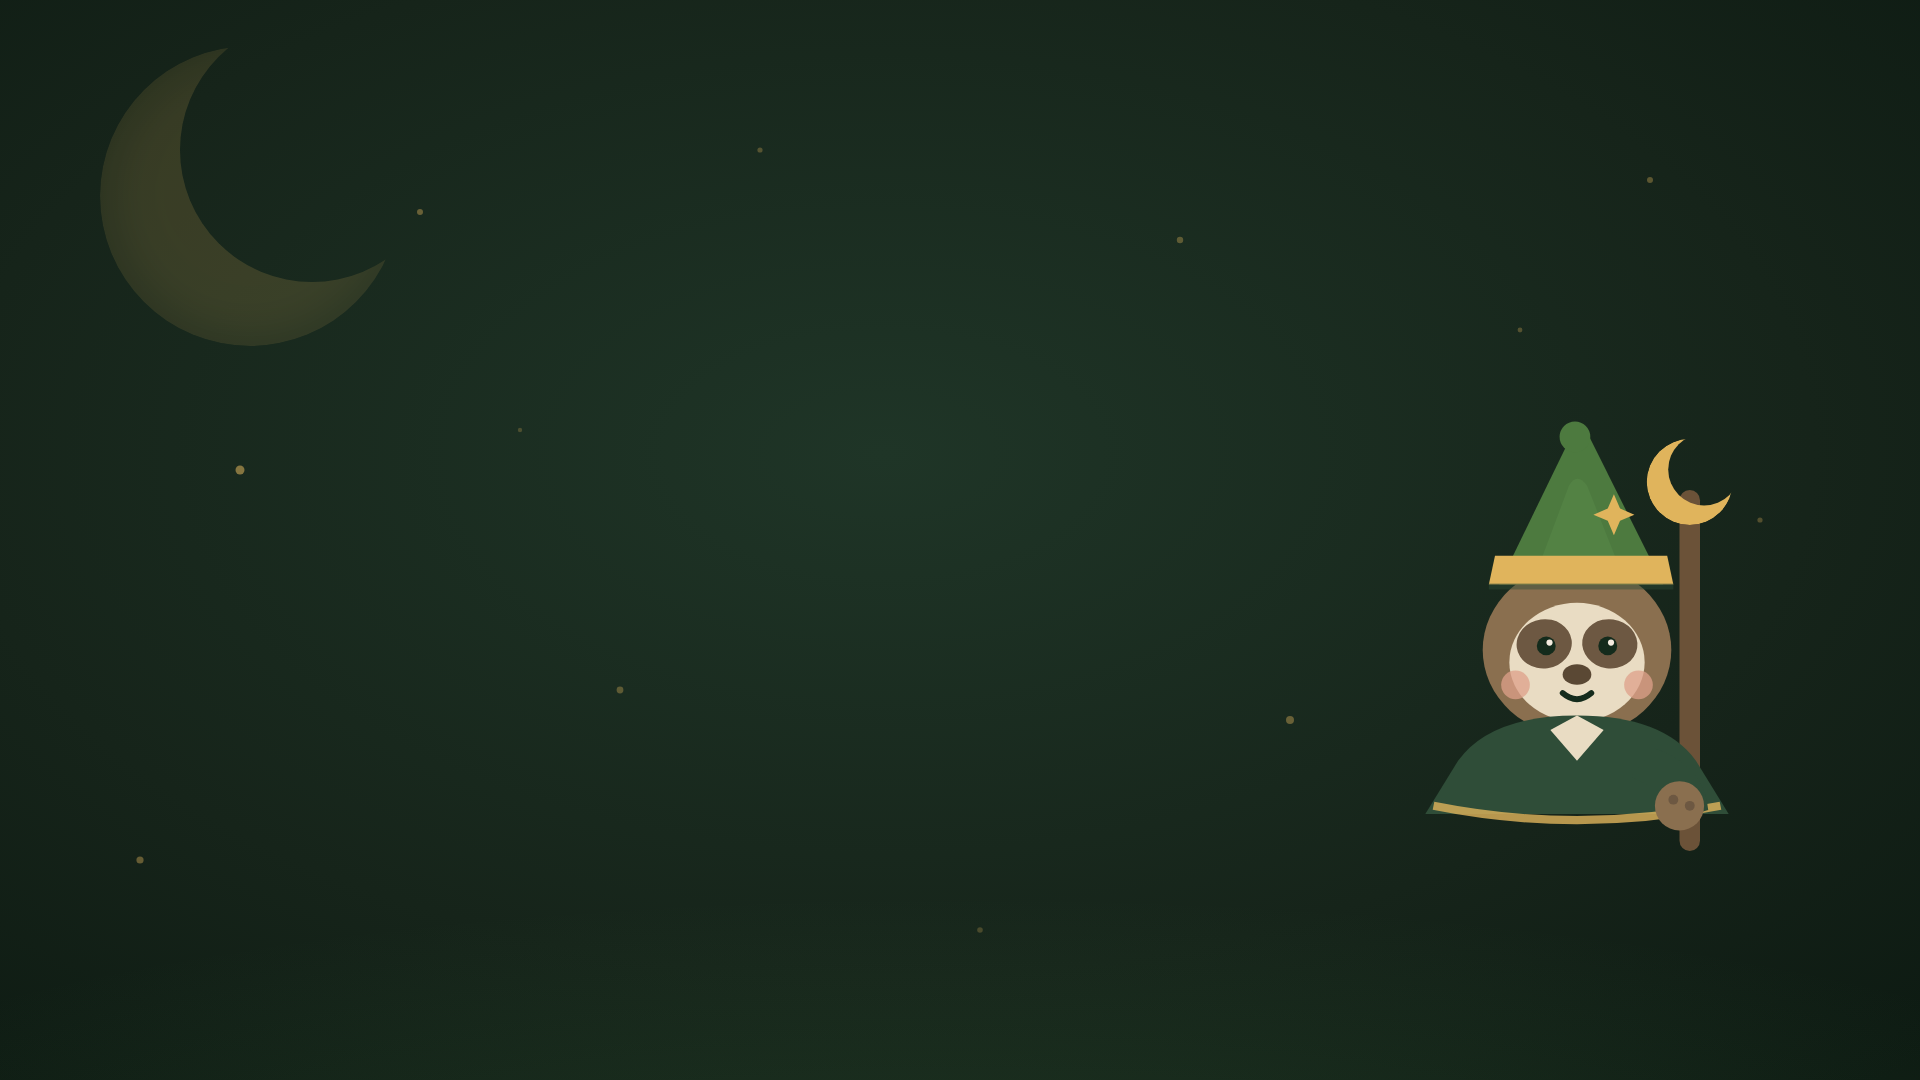
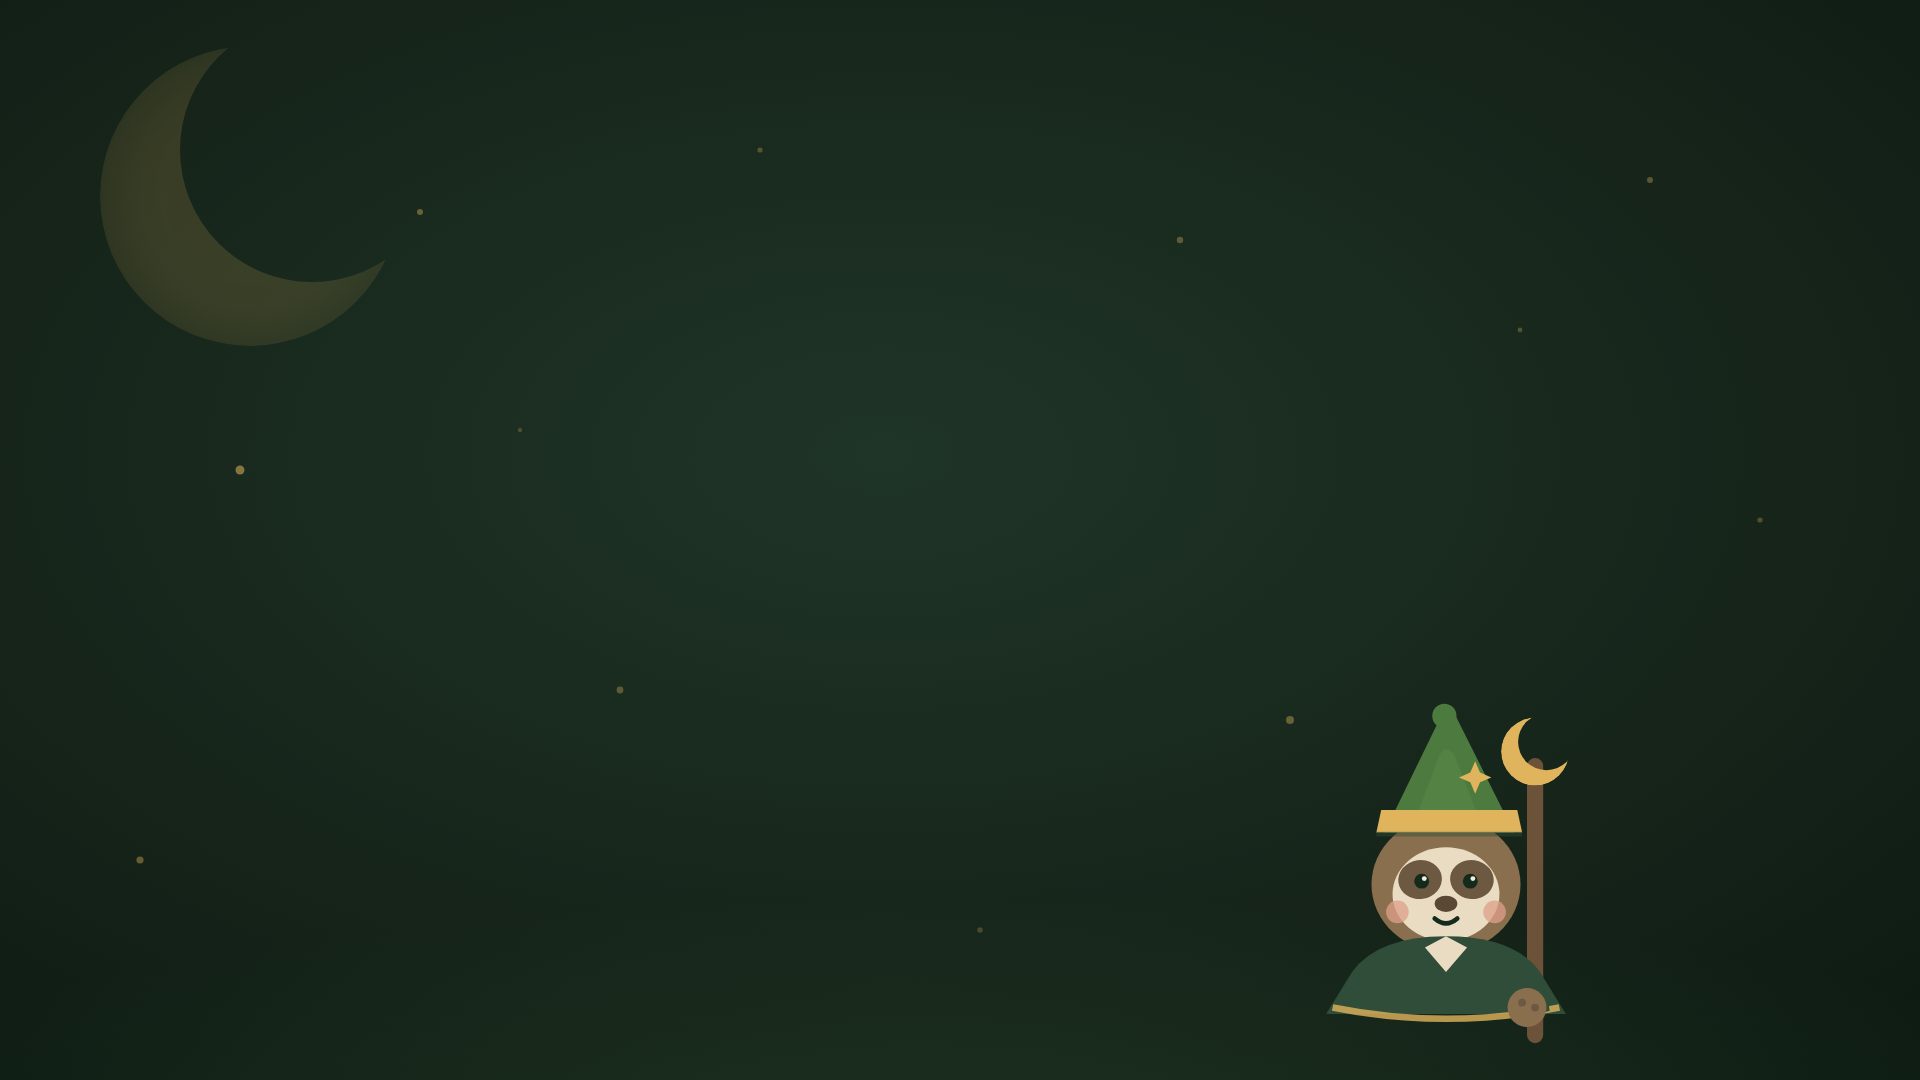
brand: smaller backdrop mascot, clear of the cover crop

Changed region(s): [[0.6875, 0.3972, 0.9062, 0.9778]]

diff --git a/brand/src/backdrop.html b/brand/src/backdrop.html
@@ -30,7 +30,7 @@ svg{display:block;width:100%;height:100%}</style></head><body>
     <circle cx="140" cy="860" r="3.6" opacity="0.4"/><circle cx="980" cy="930" r="2.8" opacity="0.25"/>
     <circle cx="1520" cy="330" r="2.4" opacity="0.3"/><circle cx="520" cy="430" r="2.2" opacity="0.25"/>
   </g>
-  <g transform="translate(1372 404) scale(2.05)">
+  <g transform="translate(1284 690) scale(1.62)">
   <defs><mask id="crescent"><rect width="200" height="200" fill="black"/>
     <circle cx="155" cy="38" r="21" fill="white"/><circle cx="162" cy="32" r="17.5" fill="black"/></mask></defs>
   
